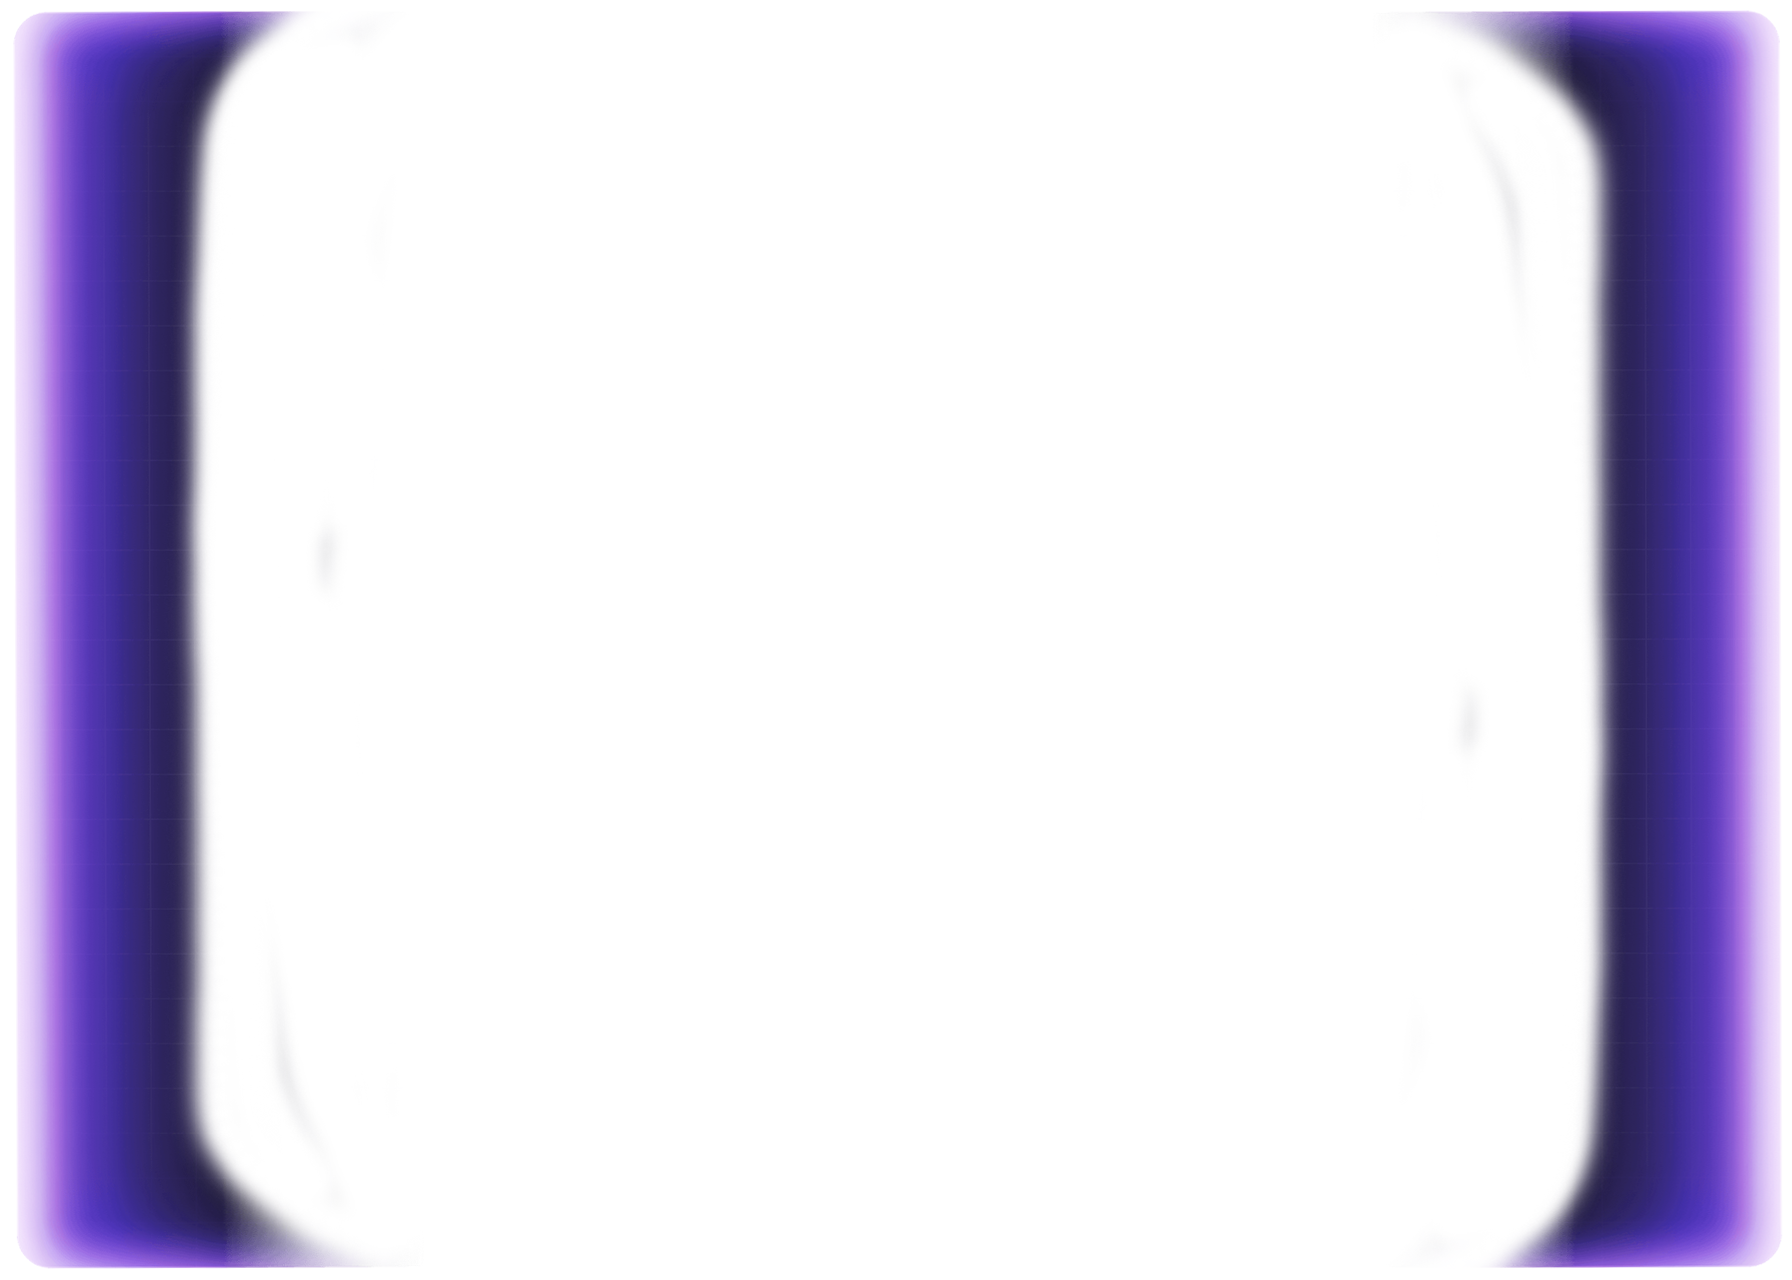
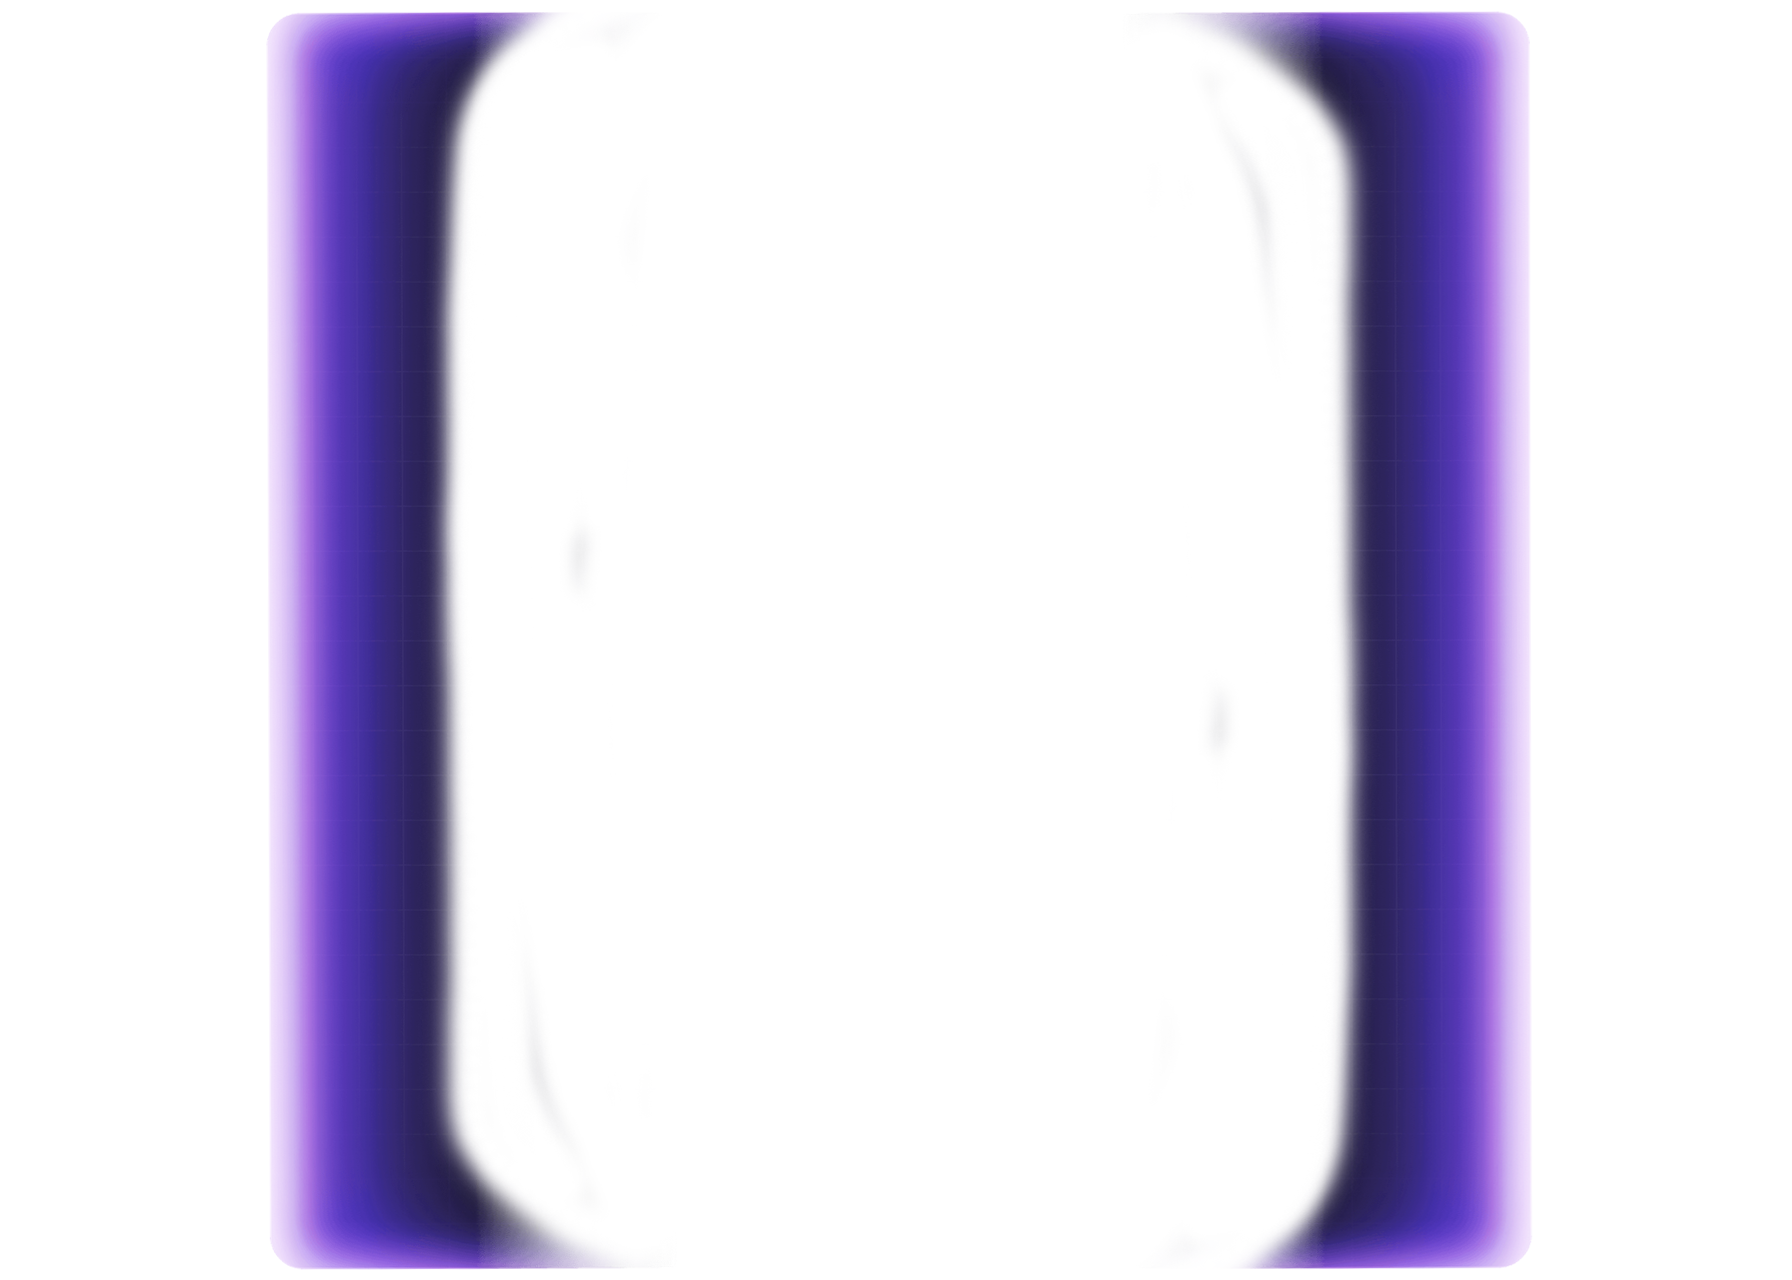
fix: register and login

diff --git a/tailwind.config.js b/tailwind.config.js
@@ -28,12 +28,15 @@ export default {
                 glowBottom: "url('/public/images/glow-bottom.png')",
                 glowTop: "url('/public/images/glow-top.png')",
                 squaredBg: "url('/public/images/squared-bg-element-3.png')",
+                square: "url('/public/images/squared.png')",
                 glowCenter: "url('/public/images/glowCenter.png')",
                 glowRect: "url('/public/images/glowRect3.png')",
                 glowRectBig: "url('/public/images/glowRect2.png')",
                 balls: "url('/public/images/balls-2.png')",
                 rect: "url('/public/images/rect.png')",
-                fusion: "url('/public/images/fusion.png')",
+                fusion: "url('/public/images/fusion-2.png')",
+                halfBall: "url('/public/images/halfBall.png')",
+                halfBallCenter: "url('/public/images/halfBallCenter.png')",
             },
         },
     },

diff --git a/resources/views/register/index.blade.php b/resources/views/register/index.blade.php
@@ -2,28 +2,28 @@
 
 @section('container')
 
-<div class="relative overflow-hidden before:absolute before:-top-60 lg:before:top-0 before:start-1/2 before:bg-glowBottom before:bg-no-repeat  before:bg-bottom before:size-full before:-z-[1] before:transform before:-translate-x-1/2" >
+<div class="relative overflow-hidden before:absolute before:-top-60 lg:before:top-0 before:start-1/2 before:bg-glowRectBig before:bg-no-repeat before:bg-bottom before:size-full before:-z-[1] before:transform before:-translate-x-1/2 lg:py-10 pb-80" >
     <div class="flex justify-center min-h-screen">
         <div class="hidden bg-cover lg:block lg:w-2/5" style="background-image: url('/images/register-bg.png')">
         </div>
 
-        <div class="flex items-center w-full max-w-3xl p-8 mx-auto lg:px-12 lg:w-3/5">
-            <div class="w-full p-6 border border-gray-500 dark:bg-oldNavy rounded-md shadow-md">
+        <div class="flex items-center w-full max-w-3xl p-2 mx-auto lg:px-8 lg:w-3/5">
+            <div class="w-full p-8  border border-gray-500 dark:bg-oldNavy rounded-md shadow-md">
                 <h1 class="block text-2xl font-bold text-white md:text-3xl lg:text-4xl ">
                     <span class="font-bold  text-center lg:text-start text-transparent from-purple-600 via-pink-600 to-purple-600 bg-gradient-to-r bg-clip-text pt-20">                    Jadilah Bagian dari Universitas Terbaik!
                     </span>
                     </h1>
 
-                <p class="mt-4 text-gray-500 dark:text-gray-400">
+                <p class="mt-4 text-gray-500 dark:text-gray-400 text-justify">
                      Daftarlah sekarang dan wujudkan impian Anda bersama Chesscool University ! Masa depan gemilang menanti Anda di sini
                 </p>
 
 
-                <form class="grid grid-cols-1 gap-6 mt-8 md:grid-cols-2" action="/register" method="post">
+                <form class="flex flex-col flex-wrap gap-5 mt-8 py-5" action="/register" method="post">
                     @csrf
                     <div>
                         <label class="block mb-2 text-sm text-gray-600 dark:text-gray-200">Name</label>
-                        <input type="text" placeholder="Name" class="block w-full px-5 py-3 mt-2 text-gray-700 placeholder-gray-400 bg-white border border-gray-200 rounded-lg dark:placeholder-gray-600 dark:bg-oldNavy dark:text-gray-300 dark:border-gray-700 focus:border-teal-400 dark:focus:border-teal-400 focus:ring-teal-400 focus:outline-none focus:ring focus:ring-opacity-40 @error('name')is-invalid @enderror" name="name" required value="{{ old('name') }}"/>
+                        <input type="text" placeholder="Name" class="block w-full px-5 py-3 mt-2 text-gray-700 placeholder-gray-400 bg-white border border-gray-200 rounded-md dark:placeholder-gray-600 dark:bg-oldNavy dark:text-gray-300 dark:border-gray-700 focus:border-teal-400 dark:focus:border-teal-400 focus:ring-teal-400 focus:outline-none focus:ring focus:ring-opacity-40 @error('name')is-invalid @enderror" name="name" required value="{{ old('name') }}"/>
                         <label for="name">
                             @error('name')
                                 <p class="text-red-700">
@@ -35,7 +35,7 @@
 
                     <div>
                         <label class="block mb-2 text-sm text-gray-600 dark:text-gray-200">Username</label>
-                        <input type="text" placeholder="Username" class="block w-full px-5 py-3 mt-2 text-gray-700 placeholder-gray-400 bg-white border border-gray-200 rounded-lg dark:placeholder-gray-600 dark:bg-oldNavy dark:text-gray-300 dark:border-gray-700 focus:border-teal-400 dark:focus:border-teal-400 focus:ring-teal-400 focus:outline-none focus:ring focus:ring-opacity-40 @error('username')is-invalid @enderror" name="username"  required value="{{ old('username') }}"/>
+                        <input type="text" placeholder="Username" class="block w-full px-5 py-3 mt-2 text-gray-700 placeholder-gray-400 bg-white border border-gray-200 rounded-md dark:placeholder-gray-600 dark:bg-oldNavy dark:text-gray-300 dark:border-gray-700 focus:border-teal-400 dark:focus:border-teal-400 focus:ring-teal-400 focus:outline-none focus:ring focus:ring-opacity-40 @error('username')is-invalid @enderror" name="username"  required value="{{ old('username') }}"/>
                         <label for="username">
                             @error('username')
                                 <p class="text-red-700">
@@ -46,7 +46,7 @@
                     </div>
                     <div>
                         <label class="block mb-2 text-sm text-gray-600 dark:text-gray-200">Email address</label>
-                        <input type="email" placeholder="Enter your email" class="block w-full px-5 py-3 mt-2 text-gray-700 placeholder-gray-400 bg-white border border-gray-200 rounded-lg dark:placeholder-gray-600 dark:bg-oldNavy dark:text-gray-300 dark:border-gray-700 focus:border-teal-400 dark:focus:border-teal-400 focus:ring-teal-400 focus:outline-none focus:ring focus:ring-opacity-40 @error('email')is-invalid @enderror" name="email"  required value="{{ old('email') }}"/>
+                        <input type="email" placeholder="Enter your email" class="block w-full px-5 py-3 mt-2 text-gray-700 placeholder-gray-400 bg-white border border-gray-200 rounded-md dark:placeholder-gray-600 dark:bg-oldNavy dark:text-gray-300 dark:border-gray-700 focus:border-teal-400 dark:focus:border-teal-400 focus:ring-teal-400 focus:outline-none focus:ring focus:ring-opacity-40 @error('email')is-invalid @enderror" name="email"  required value="{{ old('email') }}"/>
                         <label for="email">
                             @error('email')
                                 <p class="text-red-700">
@@ -58,7 +58,7 @@
 
                     <div>
                         <label class="block mb-2 text-sm text-gray-600 dark:text-gray-200">Password</label>
-                        <input type="password" placeholder="Enter your password" class="block w-full px-5 py-3 mt-2 text-gray-700 placeholder-gray-400 bg-white border border-gray-200 rounded-lg dark:placeholder-gray-600 dark:bg-oldNavy dark:text-gray-300 dark:border-gray-700 focus:border-teal-400 dark:focus:border-teal-400 focus:ring-teal-400 focus:outline-none focus:ring focus:ring-opacity-40 @error('password')is-invalid @enderror" name="password" required value="{{ old('password') }}" />
+                        <input type="password" placeholder="Enter your password" class="block w-full px-5 py-3 mt-2 text-gray-700 placeholder-gray-400 bg-white border border-gray-200 rounded-md dark:placeholder-gray-600 dark:bg-oldNavy dark:text-gray-300 dark:border-gray-700 focus:border-teal-400 dark:focus:border-teal-400 focus:ring-teal-400 focus:outline-none focus:ring focus:ring-opacity-40 @error('password')is-invalid @enderror" name="password" required value="{{ old('password') }}" />
                         <label for="password">
                             @error('password')
                                 <p class="text-red-700">
@@ -73,6 +73,7 @@
                         <span>Register </span>
                     </button>
                 </form>
+                <p class="mt-6 text-sm text-center text-gray-400">Sudah Punya Akun ? <a href="/login" class="text-purple-500 focus:outline-none focus:underline hover:underline">Login</a>.</p>
             </div>
         </div>
     </div>

diff --git a/resources/views/index.blade.php b/resources/views/index.blade.php
@@ -140,7 +140,7 @@
     <!-- ========== END ABOUT ========== -->
 
     <!-- ========== JURUSAN ========== -->
-<div class="relative overflow-hidden before:absolute before:-top-5 lg:before:top-0 before:start-1/2 before:bg-glowRect before:bg-no-repeat before:bg-bottom before:size-full before:-z-[1] before:transform before:-translate-x-1/2" id="jurusan">
+<div class="relative overflow-hidden before:absolute before:-top-5 lg:before:top-0 before:start-1/2 before:bg-glowRect before:bg-no-repeat before:bg-bottom before:size-full before:-z-[1] before:transform before:-translate-x-1/2 lg:py-10" id="jurusan">
     <!-- Start Title -->
       <div class="max-w-xl mx-auto mt-5 leading-8 text-center ">
         <h1 class="block text-2xl font-bold text-white md:text-4xl lg:text-5xl ">
@@ -162,7 +162,7 @@
       </div>
       <div class="mt-5">
         <h3 class="text-lg font-semibold text-purple-600 lg:text-start text-start">Teknik Informatika</h3>
-        <p class="mt-1 text-gray-600 lg:text-start text-start">Pelajari ilmu komputer dan teknologi informasi dengan pendekatan praktis dan inovatif.</p>
+        <p class="mt-1 text-gray-600 lg:text-start text-start">Pelajari ilmu komputer dengan pendekatan praktis dan inovatif.</p>
       </div>
     </div>
     <!-- End Icon Block -->
@@ -174,7 +174,7 @@
       </div>
       <div class="mt-5">
         <h3 class="text-lg font-semibold text-purple-600">Bisnis Internasional</h3>
-        <p class="mt-1 text-gray-600">Kembangkan keterampilan bisnis global untuk karis yang sukses di pasar global.</p>
+        <p class="mt-1 text-gray-600">Kembangkan keterampilan bisnis global untuk karir yang sukses di pasar global.</p>
       </div>
     </div>
     <!-- End Icon Block -->
@@ -198,7 +198,7 @@
       </div>
       <div class="mt-5">
         <h3 class="text-lg font-semibold text-purple-600">Teknik Sipil</h3>
-        <p class="mt-1 text-gray-600">Dapatkan pengetahuan mendalam tentang perencanaan, desain dan konstruksi pembangunan.</p>
+        <p class="mt-1 text-gray-600">Dapatkan pengetahuan mendalam tentang desain dan konstruksi pembangunan.</p>
       </div>
     </div>
     <!-- End Icon Block -->
@@ -232,14 +232,16 @@
     <!-- ========== END JURUSAN ========== -->
 
     <!-- ========== WHY US ========== -->
-  <div class="relative overflow-hidden before:absolute before:start-1/2 before:bg-balls before:bg-no-repeat before:bg-bottom before:size-full before:-z-[1] before:transform before:-translate-x-1/2 px-10  lg:py-12" id="whyus">
+  <div class="relative overflow-hidden before:absolute before:start-1/2 before:bg-halfBallCenter before:bg-opacity-95 before:bg-no-repeat before:bg-bottom  before:size-full before:-z-[1] before:transform before:-translate-x-1/2 px-10  lg:py-12" id="whyus">
     <div class="mx-auto max-w-7xl py-24 px-4 sm:px-6 lg:px-8" id="whyus">
         <div class="mb-10 lg:mb-16 flex justify-center items-center flex-col gap-x-0 gap-y-6 lg:flex-col lg:gap-y-6 max-md:max-w-lg max-md:mx-auto">
             <div class="relative w-full text-center lg:text-left lg:w-full">
-                <h2 class="font-bold lg:text-4xl sm:text-3xl text-transparent from-pink-600 via-purple-800 to-pink-800 bg-gradient-to-r bg-clip-text leading-[3.25rem] lg:mb-6 mx-auto max-w-max lg:max-w-md lg:mx-0">Mengapa CheeseCool University ?</h2>
+              <h1 class="block text-2xl font-bold text-white md:text-2xl lg:text-3xl ">
+                <span class="font-bold text-center text-transparent from-purple-600 via-pink-600 to-purple-600 bg-gradient-to-r bg-clip-text pt-20">Mengapa Cheesecool University ?</span>
+                </h1>
             </div>
             <div class="w-full text-center lg:text-left">
-                <p class="text-lg font-normal text-gray-400 mb-5">Universitas Cheesecool dikenal dengan kualitas pendidikan yang unggul, didukung oleh dosen berpengalaman dan fasilitas modern. Kami menawarkan kurikulum yang relevan dengan kebutuhan industri, memastikan lulusan kami siap bersaing di pasar kerja.</p>
+                <p class="text-md lg:text-lg text-gray-600 dark:text-neutral-400">Kami dikenal dengan kualitas pendidikan yang unggul, didukung oleh dosen berpengalaman dan fasilitas modern. Kami menawarkan kurikulum yang relevan dengan kebutuhan industri, memastikan lulusan kami siap bersaing di pasar kerja.</p>
             </div>
         </div>
         <div class="flex justify-center items-center gap-x-5 gap-y-8 lg:gap-y-0 flex-wrap md:flex-wrap lg:flex-nowrap lg:flex-row lg:justify-between lg:gap-x-8">
@@ -330,7 +332,7 @@
     <!-- ========== END WHY US ========== -->
 
     <!-- ========== ALUR PENDAFTARAN ========== -->
-    <div class="px-10 mx-auto max-w-5xl px-4 sm:px-6 lg:px-8">
+    <div class="px-10 mx-auto max-w-5xl  sm:px-6 lg:px-8">
         <div class="text-center">
             <h2 class="font-semibold text-2xl md:text-4xl lg:text-5xl bg-gradient-to-r from-purple-600 via-pink-600 to-purple-600 inline-block text-transparent bg-clip-text">Alur Pendaftaran</h2>
             <p class="mx-auto mt-4 max-w-2xl lg:px-12 text-lg font-normal text-gray-400 lg:text-xl lg:leading-8">

diff --git a/resources/views/login/index.blade.php b/resources/views/login/index.blade.php
@@ -1,24 +1,30 @@
 @extends('layouts.main')
 
 @section('container')
-<div class="relative overflow-hidden before:absolute before:top-0 before:start-1/2 before:bg-glowRect before:bg-no-repeat before:bg-bottom before:size-full before:-z-[1] before:transform before:-translate-x-1/2">
-<div class="flex justify-center items-center min-h-screen">
+<div class="relative overflow-hidden before:absolute before:top-0 before:start-1/2 before:bg-glowRectBig before:bg-no-repeat before:bg-bottom before:size-full before:-z-[1] before:transform before:-translate-x-1/2">
+<div class="flex justify-center items-center min-h-screen p-2">
     <div class="w-full max-w-md p-6 border border-gray-500 dark:bg-[#030617] rounded-md shadow-md bg-white">
-        <div class="text-center">
-            <h2 class="text-2xl font-normal text-transparent sm:text-3xl bg-gradient-to-r bg-clip-text from-pink-600 via-purple-580 to-purple-700 inline-block">Welcome, TrailBlazer</h2>
-            <p class="mt-3 text-gray-500 text-justify dark:text-gray-500">Selamat datang di Portal Penerimaan Mahasiswa Universitas CheeseCool! Kelola aplikasi, unggah dokumen, dan alur pendaftaran yang mudah. Kami siap menyertai perjalanan pendidikan Anda!</p>
+        <div class="text-start py-5">
+            <h1 class="block text-2xl font-bold text-white md:text-3xl lg:text-4xl ">
+                <span class="font-bold  text-center lg:text-start text-transparent from-purple-600 via-pink-600 to-purple-600 bg-gradient-to-r bg-clip-text pt-20">                    Welcome, TrailBlazer
+                </span>
+                </h1>
+
+            <p class="mt-4 text-gray-500 dark:text-gray-400 text-justify">
+                Selamat datang di Portal Penerimaan Mahasiswa Universitas CheeseCool! Kelola aplikasi, unggah dokumen, dan alur pendaftaran yang mudah. Kami siap menyertai perjalanan pendidikan Anda!
+            </p>
         </div>
 
         <div class="mt-6">
             <form>
                 <div>
                     <label for="email" class="block mb-2 text-sm text-gray-600 dark:text-gray-200">Email Address</label>
-                    <input type="email" name="email" id="email" placeholder="Email" class="block w-full px-4 py-2 mt-2 text-gray-700 placeholder-gray-500 dark:bg-[#030617] border border-gray-200 rounded-lg focus:outline-none focus:border-purple-500 focus:bg-white focus:ring focus:ring-purple-500 dark:text-gray-300 dark:border-gray-700 dark:focus:border-purple-500 dark:focus:bg-gray-900 dark:focus:ring-purple-500 dark:focus:ring-opacity-60" />
+                    <input type="email" name="email" id="email" placeholder="Email" class="block w-full px-4 py-2 mt-2 text-gray-700 placeholder-gray-500 dark:bg-[#030617] border border-gray-200 rounded-md focus:outline-none focus:border-purple-500 focus:bg-white focus:ring focus:ring-purple-500 dark:text-gray-300 dark:border-gray-700 dark:focus:border-purple-500 dark:focus:bg-gray-900 dark:focus:ring-purple-500 dark:focus:ring-opacity-60" />
                 </div>
 
                 <div class="mt-6">
                     <label for="password" class="block mb-2 text-sm text-gray-600 dark:text-gray-200">Password</label>
-                    <input type="password" name="password" id="password" placeholder="Password" class="block w-full px-4 py-2 mt-2 text-gray-700 placeholder-gray-500 dark:bg-[#030617] border border-gray-200 rounded-lg focus:outline-none focus:border-purple-500 focus:bg-white focus:ring focus:ring-purple-500 dark:text-gray-300 dark:border-gray-700 dark:focus:border-purple-500 dark:focus:bg-gray-900 dark:focus:ring-purple-500 dark:focus:ring-opacity-60" />
+                    <input type="password" name="password" id="password" placeholder="Password" class="block w-full px-4 py-2 mt-2 text-gray-700 placeholder-gray-500 dark:bg-[#030617] border border-gray-200 rounded-md focus:outline-none focus:border-purple-500 focus:bg-white focus:ring focus:ring-purple-500 dark:text-gray-300 dark:border-gray-700 dark:focus:border-purple-500 dark:focus:bg-gray-900 dark:focus:ring-purple-500 dark:focus:ring-opacity-60" />
                 </div>
 
                 <div class="mt-6">
